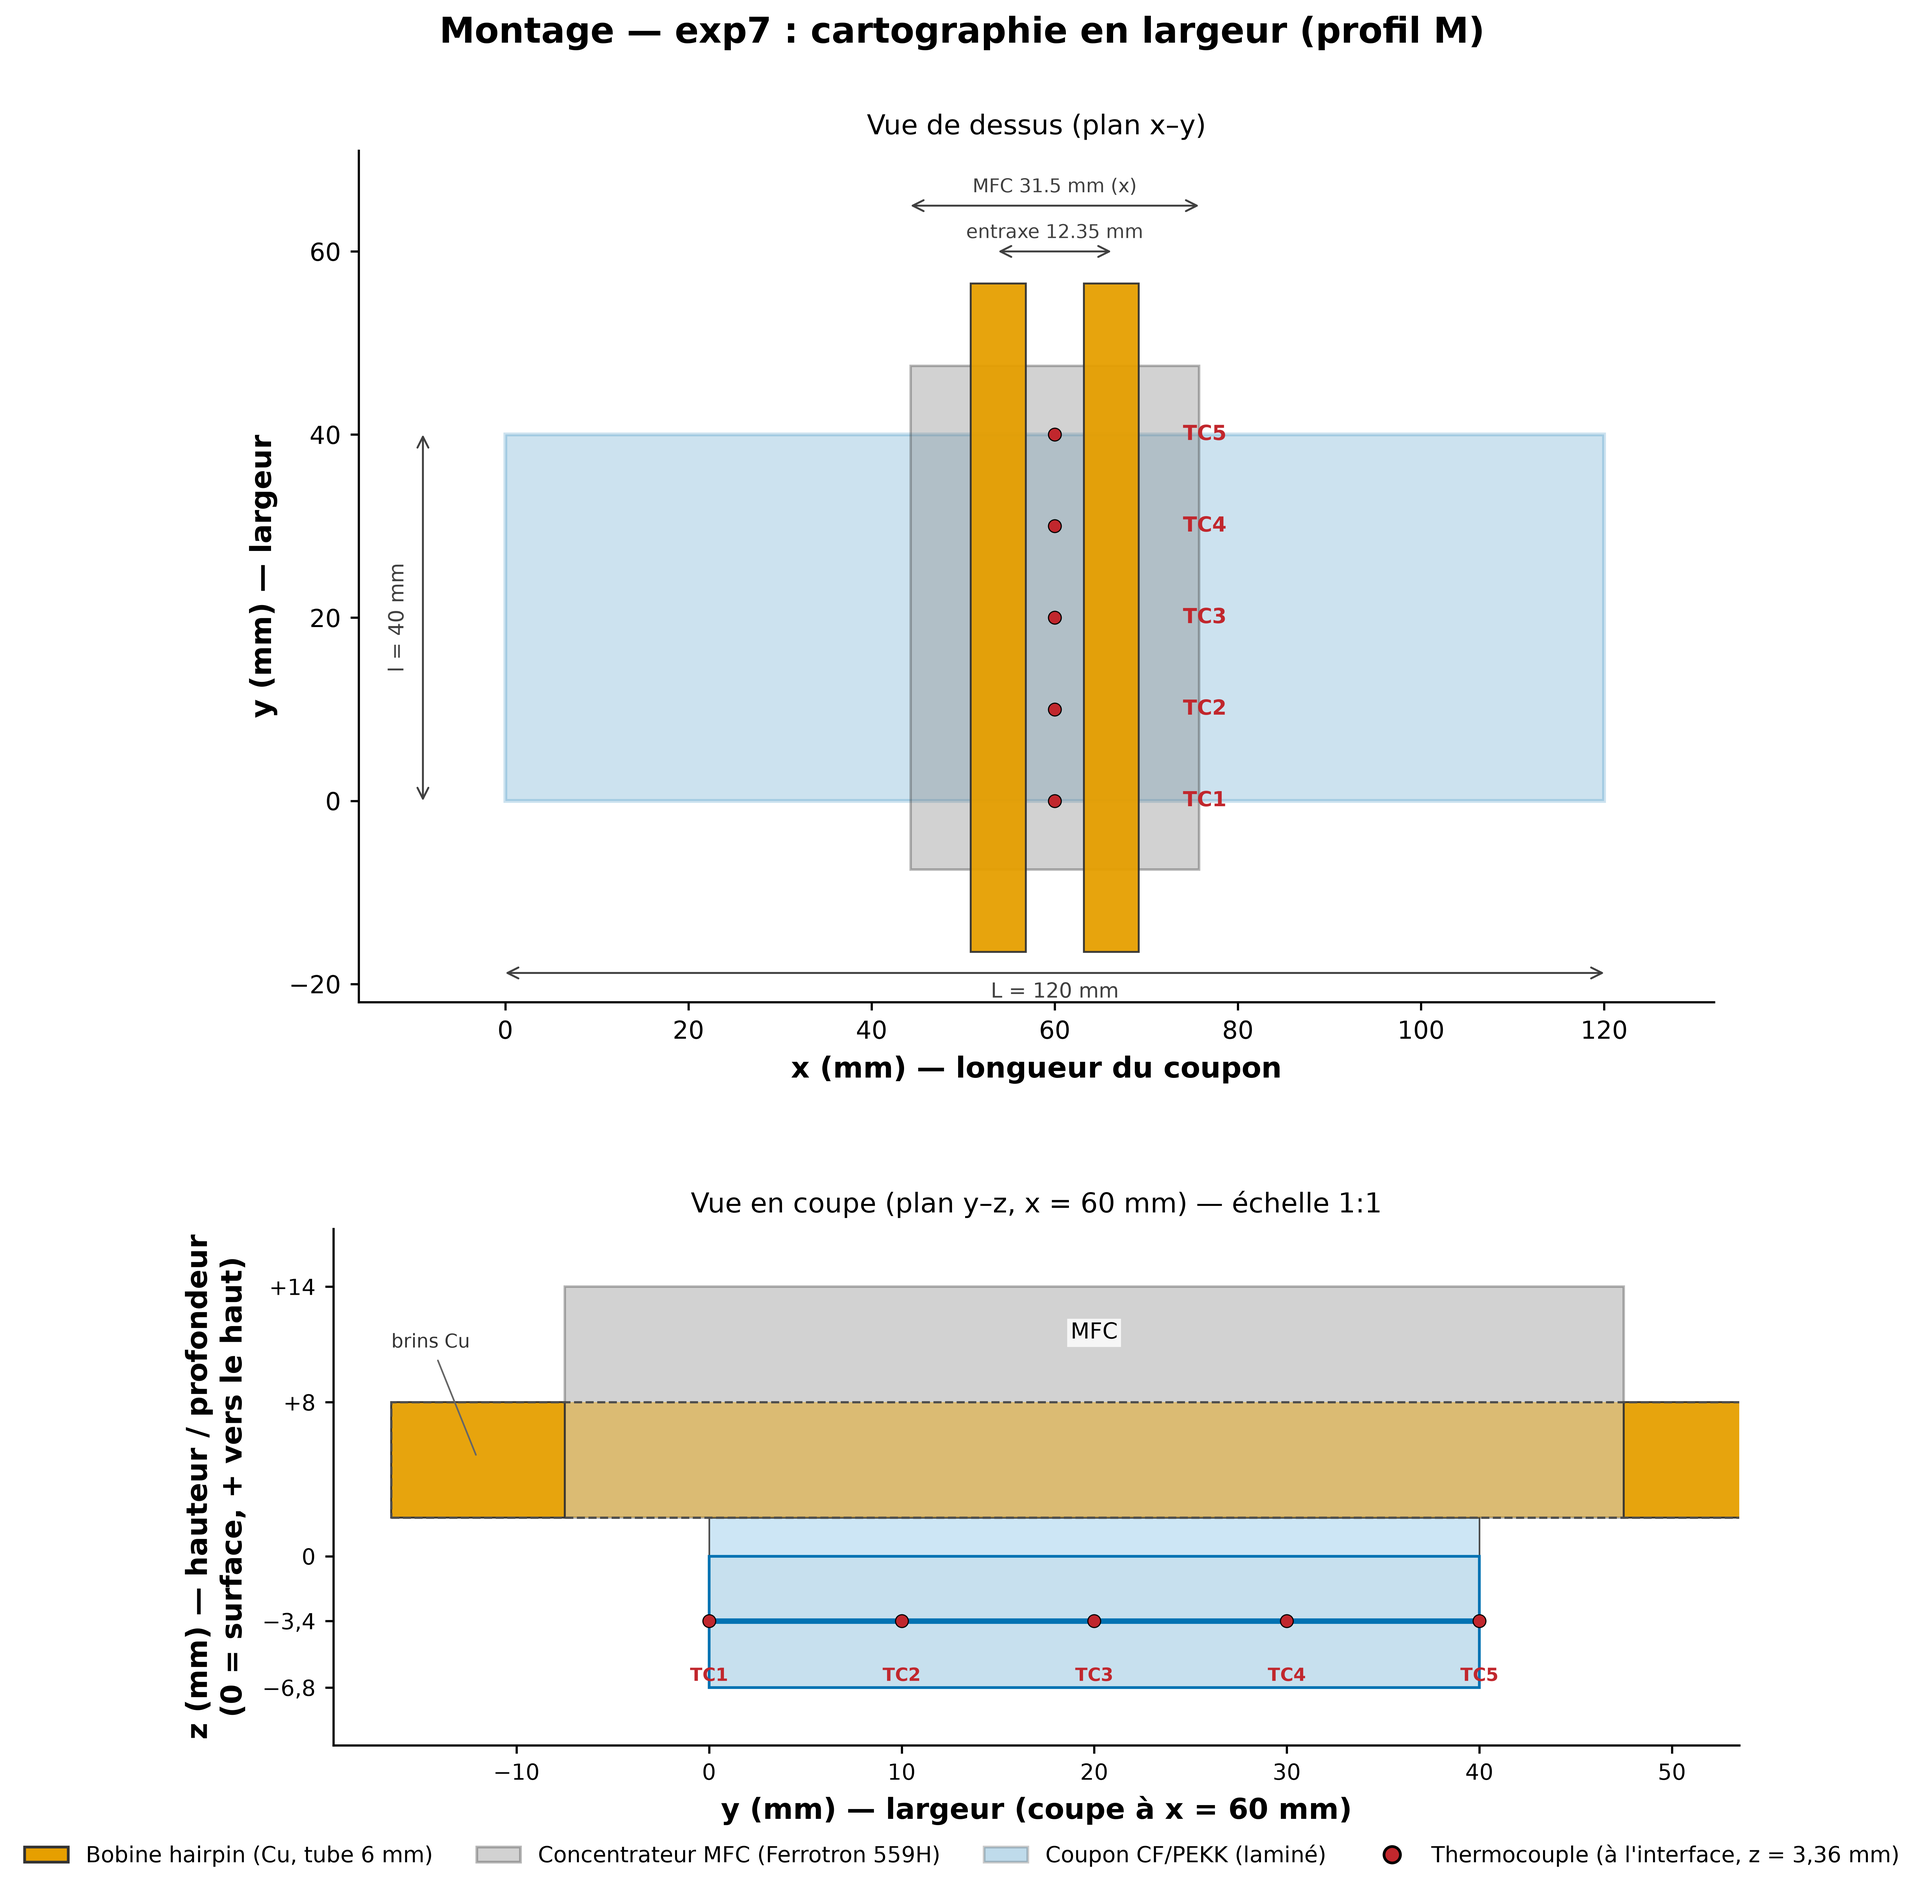
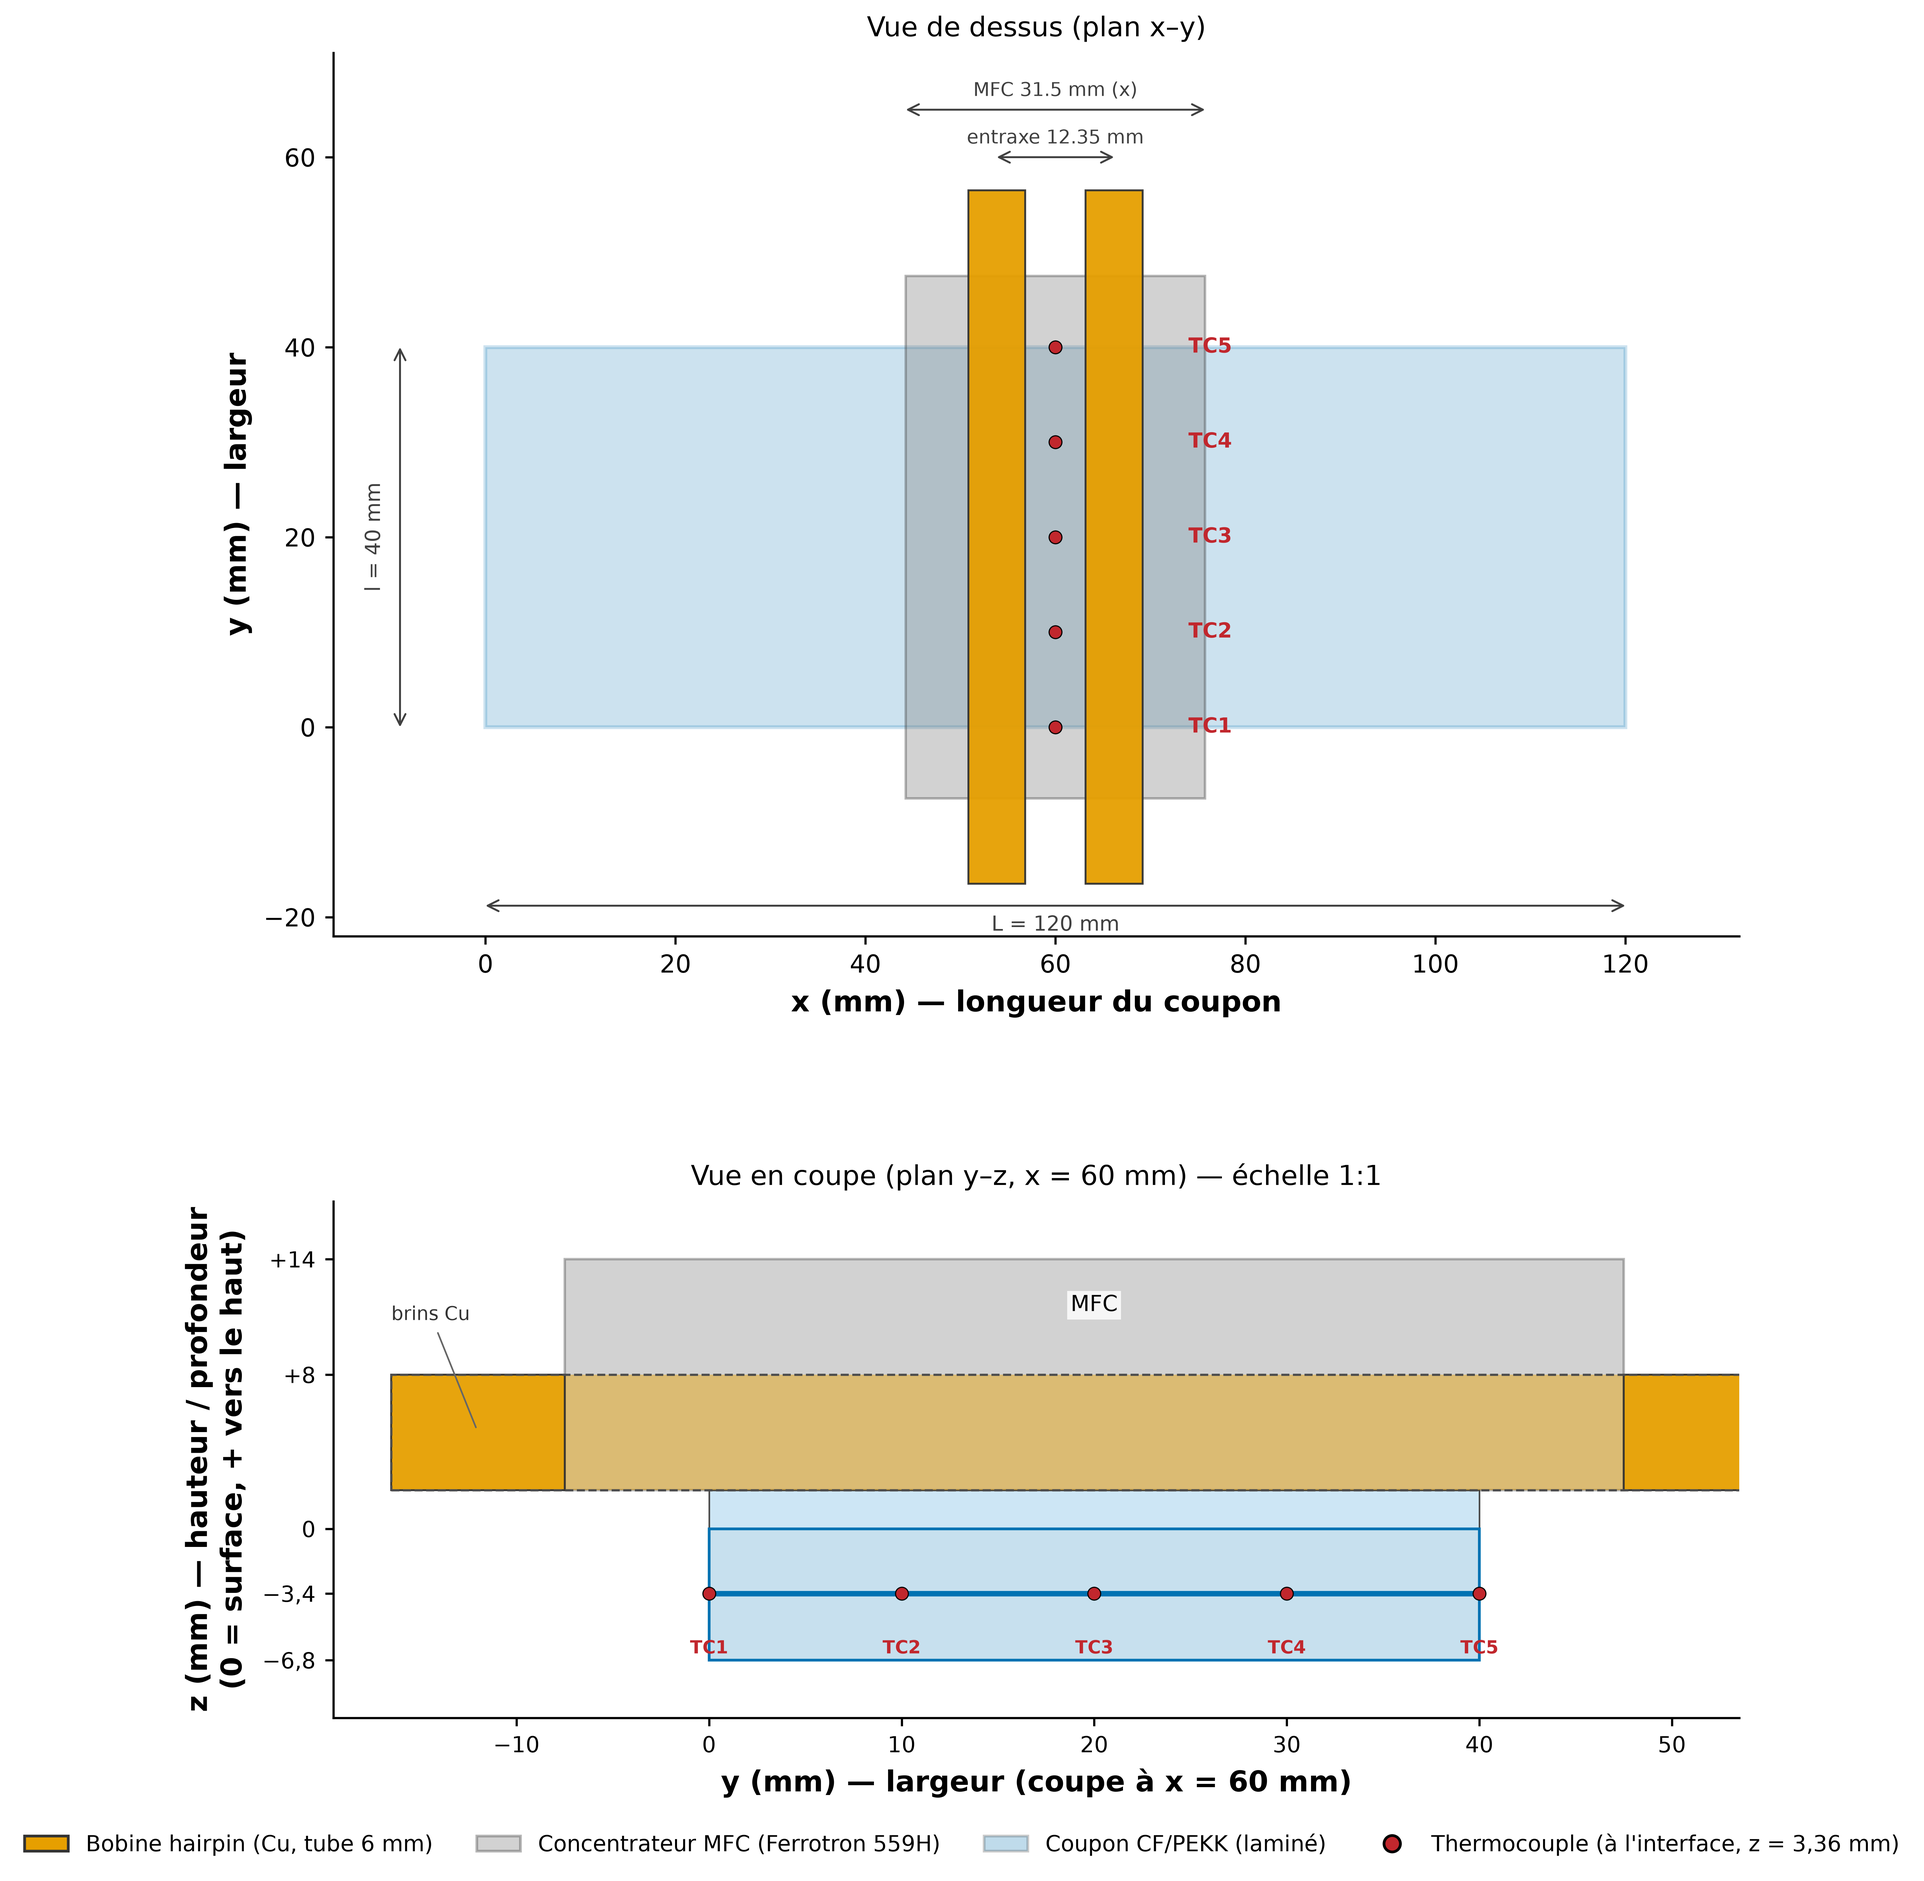
Montages : retrait des titres principaux (redondants avec la légende LaTeX)
Suppression des suptitle "Montage — exp7/exp9 ..." ; les panneaux remontent
(top 0.905 -> 0.955) pour utiliser la place libérée.

diff --git a/scripts/gen_schemas_montage.py b/scripts/gen_schemas_montage.py
@@ -212,7 +212,7 @@ def coupe_axis_cosmetics(ax):
 def make_exp7():
     fig = plt.figure(figsize=(8.4, 9.8))
     gs = fig.add_gridspec(2, 1, height_ratios=[1.55, 1.0], hspace=0.30,
-                          top=0.905, bottom=0.07, left=0.12, right=0.97)
+                          top=0.955, bottom=0.07, left=0.12, right=0.97)
     ax1 = fig.add_subplot(gs[0])
     ax2 = fig.add_subplot(gs[1])
 
@@ -293,8 +293,6 @@ def make_exp7():
 
     fig.legend(handles=LEGEND_HANDLES, loc="lower center", ncol=4, frameon=False,
                bbox_to_anchor=(0.5, 0.005), fontsize=8.0)
-    fig.suptitle("Montage — exp7 : cartographie en largeur (profil M)",
-                 fontsize=13, fontweight="bold", y=0.975)
 
     savefig(fig, OUT / "schema_montage_exp7.png")
     plt.close(fig)
@@ -306,7 +304,7 @@ def make_exp7():
 def make_exp9():
     fig = plt.figure(figsize=(8.8, 9.4))
     gs = fig.add_gridspec(2, 1, height_ratios=[1.35, 1.0], hspace=0.30,
-                          top=0.905, bottom=0.07, left=0.11, right=0.98)
+                          top=0.955, bottom=0.07, left=0.11, right=0.98)
     ax1 = fig.add_subplot(gs[0])
     ax2 = fig.add_subplot(gs[1])
 
@@ -386,8 +384,6 @@ def make_exp9():
 
     fig.legend(handles=LEGEND_HANDLES, loc="lower center", ncol=4, frameon=False,
                bbox_to_anchor=(0.5, 0.003), fontsize=8.0)
-    fig.suptitle("Montage — exp9 : dissipation longitudinale",
-                 fontsize=13, fontweight="bold", y=0.975)
 
     savefig(fig, OUT / "schema_montage_exp9.png")
     plt.close(fig)
